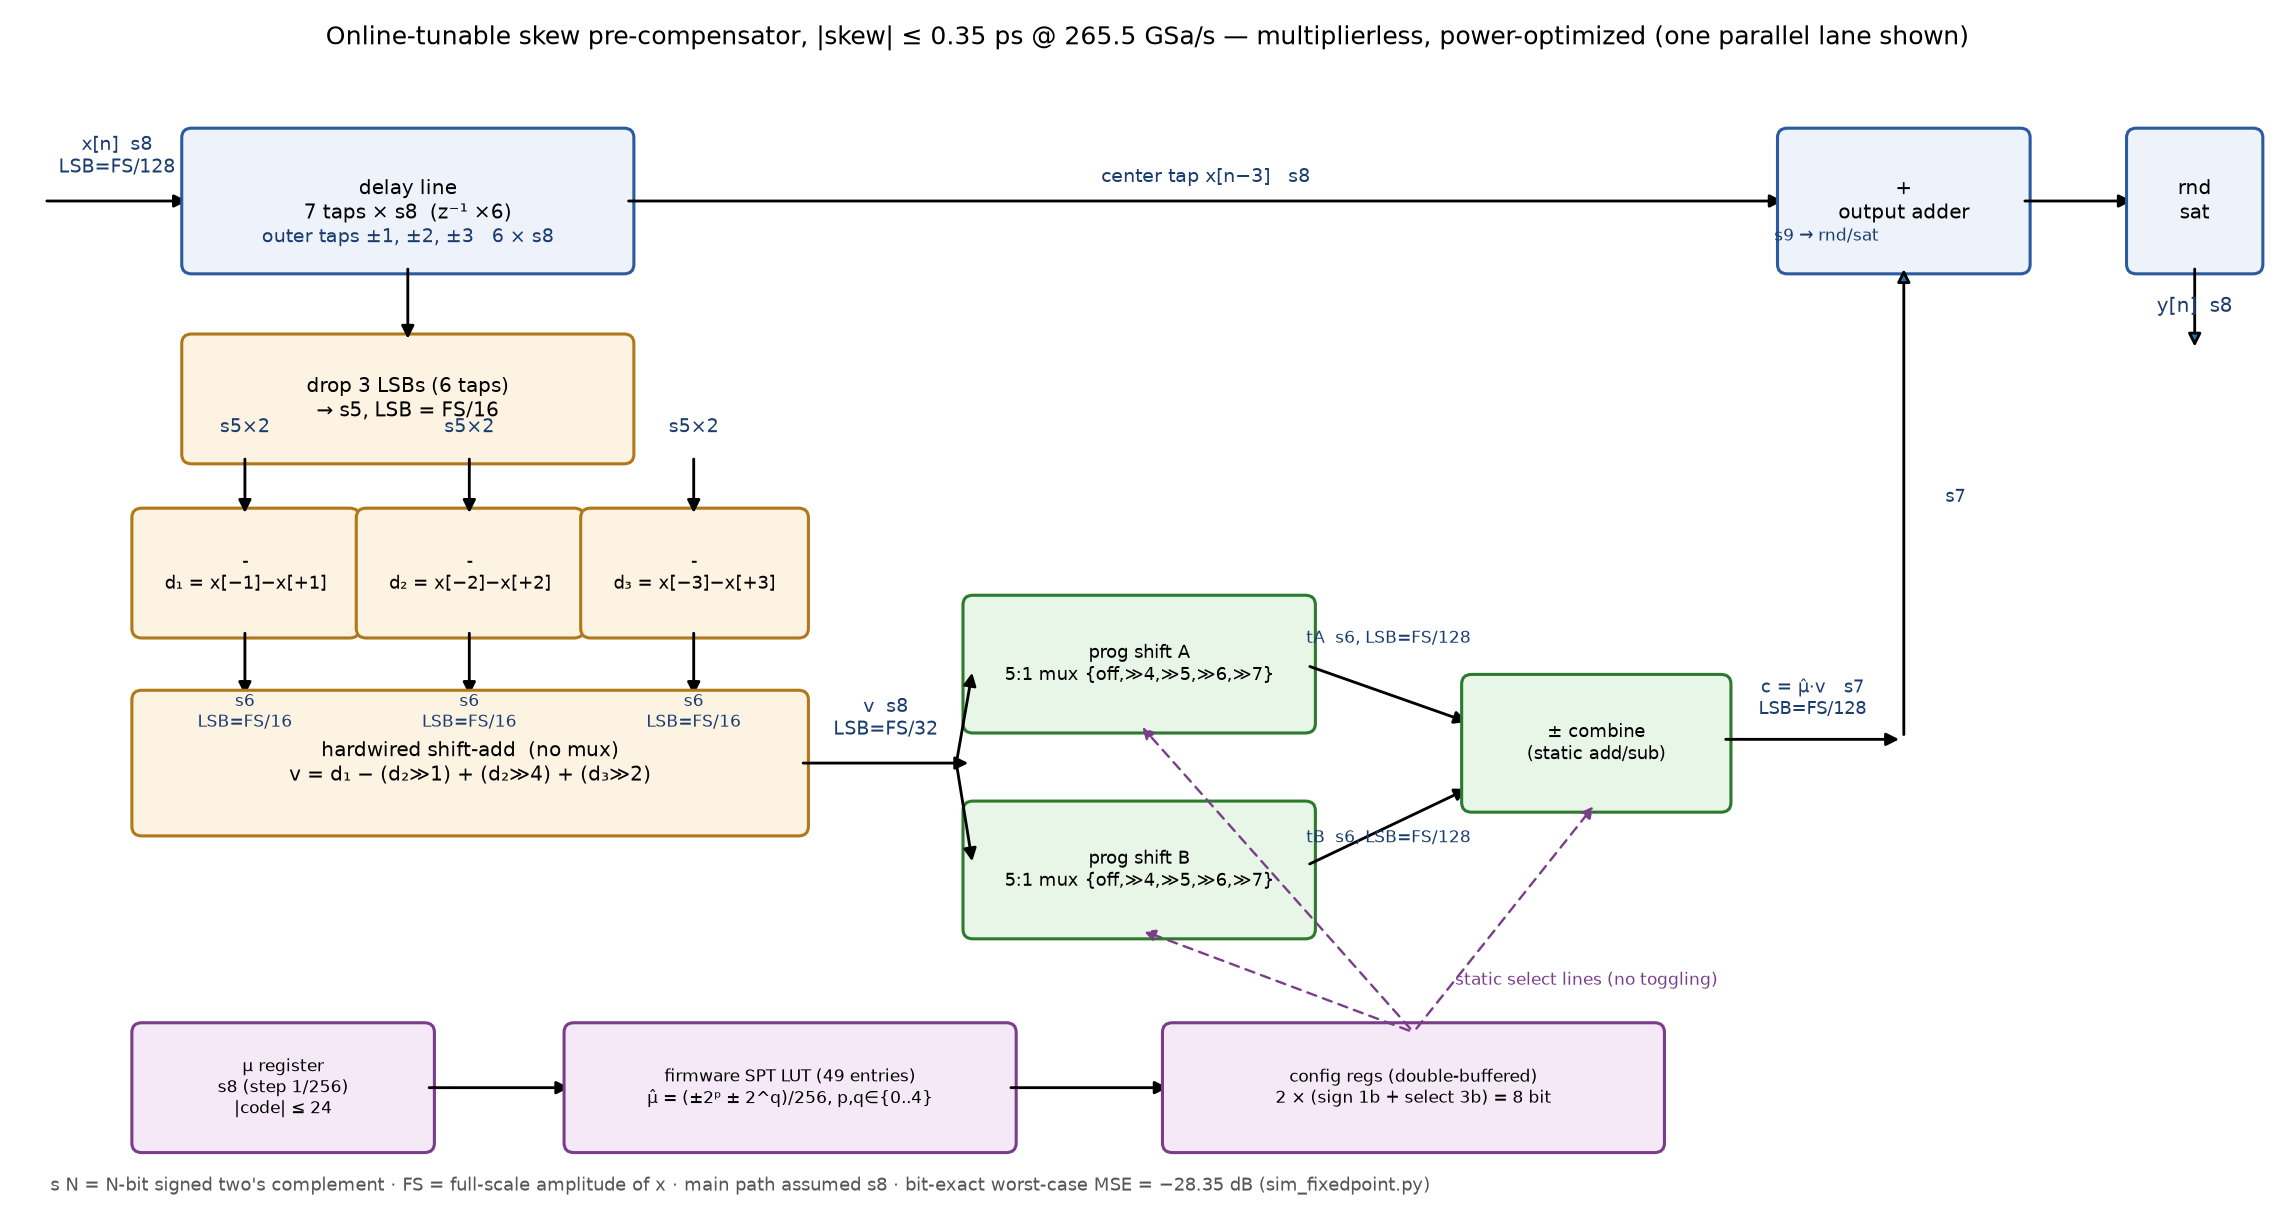
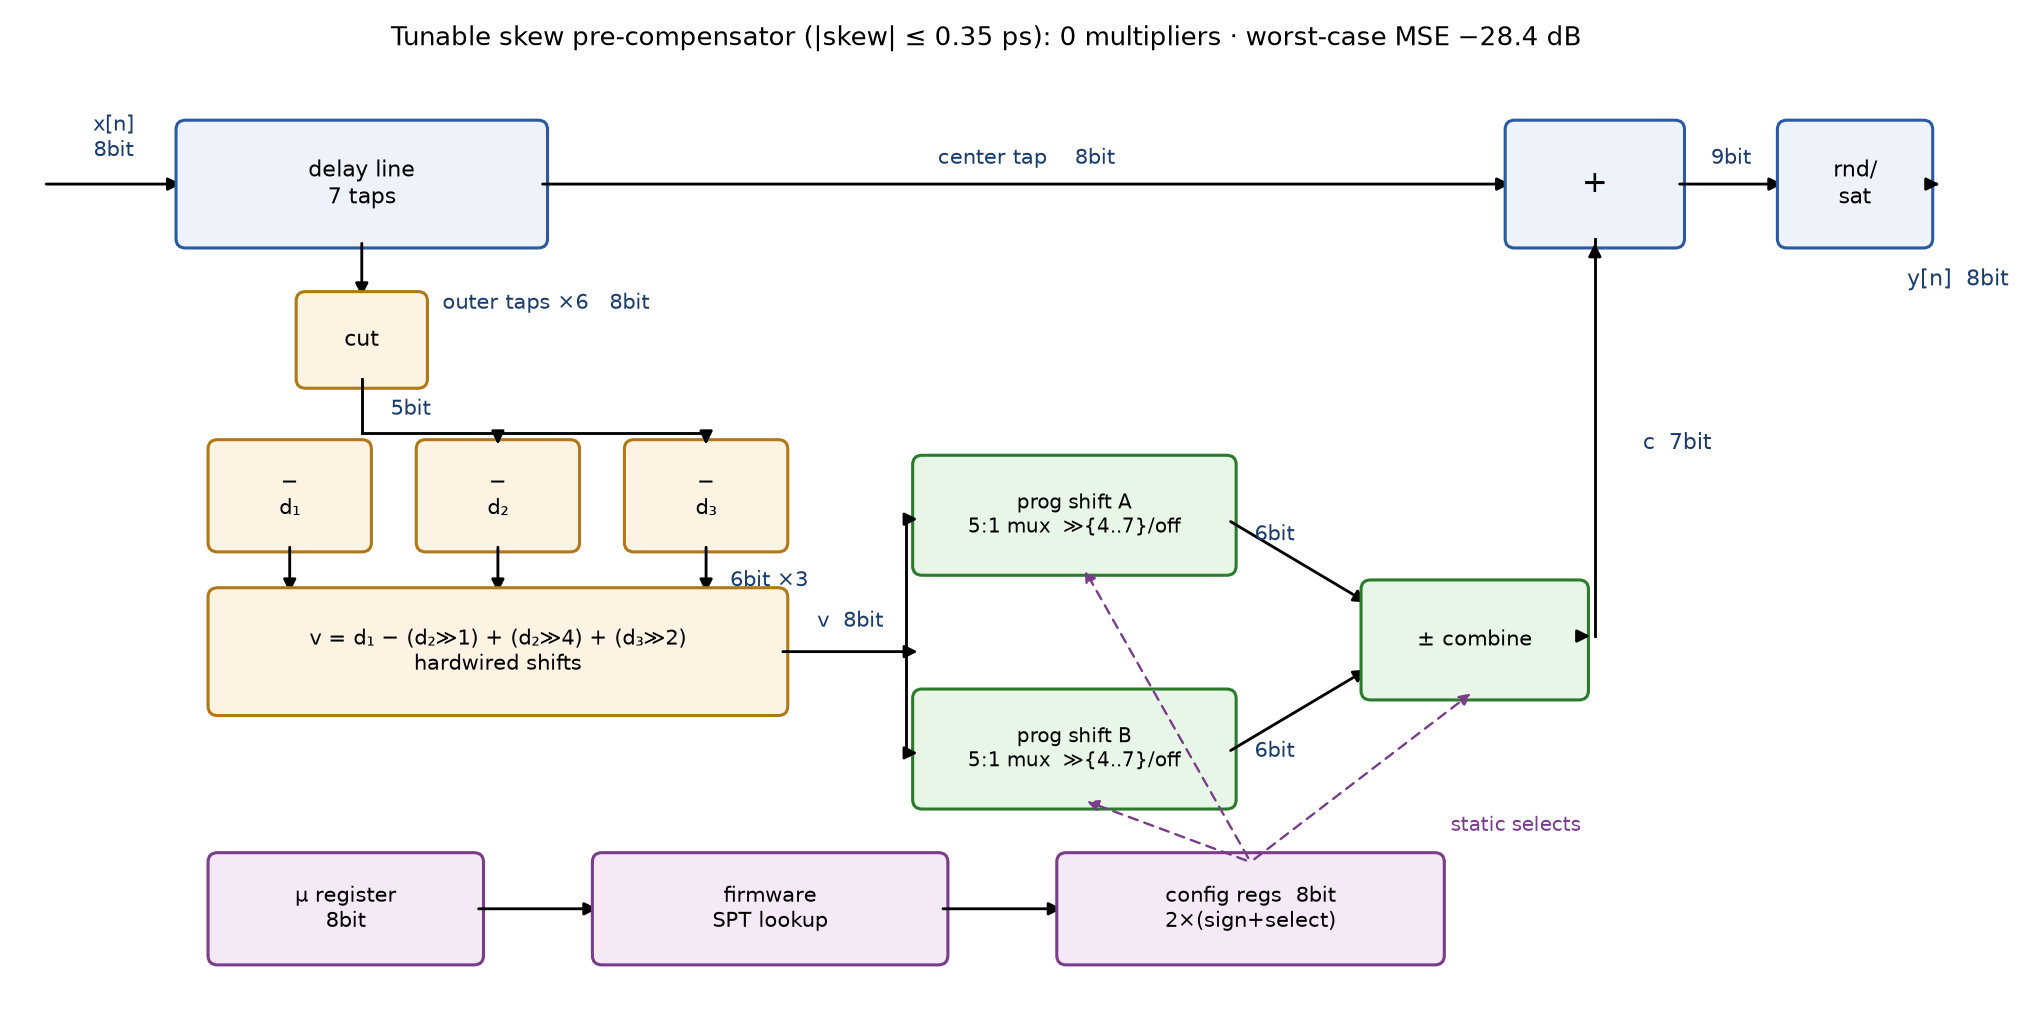
Simplify block diagram: plain bit-width labels, cut box for truncation
Claude-Session: https://claude.ai/code/session_01UbEyxzdQC9DticNgWAgSg7

diff --git a/skew-precomp/make_blockdiagram.py b/skew-precomp/make_blockdiagram.py
@@ -1,114 +1,99 @@
 #!/usr/bin/env python3
-"""Block diagram of the final power-optimized skew compensator with
-node bit-widths (verified bit-exact by sim_fixedpoint.py)."""
+"""Simplified block diagram: bit widths only (verified by sim_fixedpoint.py)."""
 
 import matplotlib
 matplotlib.use("Agg")
 import matplotlib.pyplot as plt
 from matplotlib.patches import FancyBboxPatch, FancyArrowPatch
 
-fig, ax = plt.subplots(figsize=(13.5, 7.2))
-ax.set_xlim(0, 13.5)
-ax.set_ylim(0, 7.2)
+fig, ax = plt.subplots(figsize=(12, 6))
+ax.set_xlim(0, 12)
+ax.set_ylim(0, 6)
 ax.axis("off")
 
-
-def box(x, y, w, h, text, fc="#eef3fb", ec="#2b5aa0", fs=8.6, style="round"):
-    ax.add_patch(FancyBboxPatch((x, y), w, h,
-                                boxstyle=f"{style},pad=0.06",
-                                fc=fc, ec=ec, lw=1.3))
-    ax.text(x + w / 2, y + h / 2, text, ha="center", va="center",
-            fontsize=fs)
+BLUE = dict(fc="#eef3fb", ec="#2b5aa0")
+ORANGE = dict(fc="#fdf3e3", ec="#b07818")
+GREEN = dict(fc="#e8f6e8", ec="#2c7a2c")
+PURPLE = dict(fc="#f5e9f7", ec="#7a3d8a")
 
 
-def arrow(x1, y1, x2, y2, label="", dy=0.14, fs=8, color="k", ls="-"):
-    ax.add_patch(FancyArrowPatch((x1, y1), (x2, y2),
-                                 arrowstyle="-|>", mutation_scale=11,
+def box(x, y, w, h, text, fs=9.5, **kw):
+    ax.add_patch(FancyBboxPatch((x, y), w, h, boxstyle="round,pad=0.06",
+                                lw=1.3, **kw))
+    ax.text(x + w / 2, y + h / 2, text, ha="center", va="center", fontsize=fs)
+
+
+def arrow(p1, p2, label="", loff=(0, 0.13), fs=9, color="k", ls="-"):
+    ax.add_patch(FancyArrowPatch(p1, p2, arrowstyle="-|>", mutation_scale=11,
                                  lw=1.2, color=color, linestyle=ls))
     if label:
-        ax.text((x1 + x2) / 2, max(y1, y2) + dy, label, ha="center",
-                fontsize=fs, color="#1a3d6e")
+        ax.text((p1[0] + p2[0]) / 2 + loff[0], (p1[1] + p2[1]) / 2 + loff[1],
+                label, ha="center", fontsize=fs, color="#1a3d6e")
 
 
-# ---------------- main path (top) ----------------
-arrow(0.1, 6.3, 1.0, 6.3, "x[n]  s8\nLSB=FS/128", dy=0.18)
-box(1.0, 5.9, 2.6, 0.8, "delay line\n7 taps × s8  (z⁻¹ ×6)")
-arrow(3.6, 6.3, 10.6, 6.3, "center tap x[n−3]   s8", dy=0.12)
-box(10.6, 5.9, 1.4, 0.8, "+\noutput adder")
-arrow(12.0, 6.3, 12.7, 6.3)
-box(12.7, 5.9, 0.7, 0.8, "rnd\nsat")
-ax.text(13.05, 5.6, "y[n]  s8", ha="center", fontsize=8.6, color="#1a3d6e")
-ax.add_patch(FancyArrowPatch((13.05, 5.9), (13.05, 5.35),
-                             arrowstyle="-|>", mutation_scale=11, lw=1.2))
+# ---------- main path ----------
+arrow((0.1, 5.2), (1.0, 5.2), "x[n]\n8bit", loff=(0, 0.18))
+box(1.0, 4.85, 2.2, 0.7, "delay line\n7 taps", **BLUE)
+arrow((3.2, 5.2), (9.3, 5.2), "center tap    8bit")
+box(9.3, 4.85, 1.0, 0.7, "+", fs=13, **BLUE)
+arrow((10.3, 5.2), (11.0, 5.2), "9bit")
+box(11.0, 4.85, 0.85, 0.7, "rnd/\nsat", **BLUE)
+arrow((11.9, 5.2), (11.98, 5.2))
+ax.text(11.75, 4.55, "y[n]  8bit", fontsize=9.5, color="#1a3d6e")
 
-# ---------------- correction path ----------------
-box(1.0, 4.7, 2.6, 0.7,
-    "drop 3 LSBs (6 taps)\n→ s5, LSB = FS/16", fc="#fdf3e3", ec="#b07818")
-arrow(2.3, 5.9, 2.3, 5.4, "outer taps ±1, ±2, ±3   6 × s8")
+# ---------- cut ----------
+arrow((2.1, 4.85), (2.1, 4.45), "outer taps ×6   8bit", loff=(1.15, -0.25))
+box(1.75, 3.95, 0.7, 0.5, "cut", **ORANGE)
+ax.text(2.28, 3.72, "5bit", fontsize=9, color="#1a3d6e")
 
-sub_x = [0.7, 2.05, 3.4]
-for i, (sx, lbl) in enumerate(zip(sub_x, ("d₁ = x[−1]−x[+1]",
-                                          "d₂ = x[−2]−x[+2]",
-                                          "d₃ = x[−3]−x[+3]"))):
-    box(sx, 3.6, 1.25, 0.7, f"-\n{lbl}", fc="#fdf3e3", ec="#b07818", fs=7.6)
-    arrow(sx + 0.62, 4.7, sx + 0.62, 4.3, "s5×2")
-    arrow(sx + 0.62, 3.6, sx + 0.62, 3.15,
-          "s6\nLSB=FS/16", dy=-0.62, fs=7.3)
+# ---------- subtractors ----------
+labels = ("d₁", "d₂", "d₃")
+for i, sx in enumerate((1.2, 2.5, 3.8)):
+    box(sx, 2.9, 0.9, 0.6, f"−\n{labels[i]}", fs=9, **ORANGE)
+    if i:
+        arrow((sx + 0.45, 3.6), (sx + 0.45, 3.5))
+    arrow((sx + 0.45, 2.9), (sx + 0.45, 2.55))
+ax.text(4.4, 2.62, "6bit ×3", fontsize=9, color="#1a3d6e")
+ax.plot([2.1, 4.25], [3.6, 3.6], color="k", lw=1.2)
+ax.plot([2.1, 2.1], [3.95, 3.6], color="k", lw=1.2)
 
-box(0.7, 2.35, 3.95, 0.8,
-    "hardwired shift-add  (no mux)\n"
-    "v = d₁ − (d₂≫1) + (d₂≫4) + (d₃≫2)",
-    fc="#fdf3e3", ec="#b07818")
-arrow(4.65, 2.75, 5.7, 2.75, "v  s8\nLSB=FS/32", dy=0.18)
+# ---------- hardwired shift-add ----------
+box(1.2, 1.85, 3.5, 0.7,
+    "v = d₁ − (d₂≫1) + (d₂≫4) + (d₃≫2)"
+    "\nhardwired shifts", fs=8.8, **ORANGE)
+arrow((4.7, 2.2), (5.6, 2.2), "v  8bit", loff=(0, 0.16))
 
-# two programmable shifters
-box(5.7, 3.0, 2.0, 0.75,
-    "prog shift A\n5:1 mux {off,≫4,≫5,≫6,≫7}", fc="#e8f6e8", ec="#2c7a2c",
-    fs=7.8)
-box(5.7, 1.7, 2.0, 0.75,
-    "prog shift B\n5:1 mux {off,≫4,≫5,≫6,≫7}", fc="#e8f6e8", ec="#2c7a2c",
-    fs=7.8)
-arrow(5.6, 2.75, 5.7, 3.35)
-arrow(5.6, 2.75, 5.7, 2.1)
-arrow(7.7, 3.37, 8.7, 3.0, "tA  s6, LSB=FS/128", fs=7.3)
-arrow(7.7, 2.1, 8.7, 2.6, "tB  s6, LSB=FS/128", dy=-0.35, fs=7.3)
+# ---------- programmable shifts ----------
+box(5.6, 2.75, 1.9, 0.65, "prog shift A\n5:1 mux  ≫{4..7}/off",
+    fs=8.5, **GREEN)
+box(5.6, 1.25, 1.9, 0.65, "prog shift B\n5:1 mux  ≫{4..7}/off",
+    fs=8.5, **GREEN)
+ax.plot([5.5, 5.5], [1.55, 3.05], color="k", lw=1.2)
+arrow((5.5, 3.05), (5.6, 3.05))
+arrow((5.5, 1.55), (5.6, 1.55))
+arrow((7.5, 3.05), (8.4, 2.5), "6bit", loff=(-0.15, 0.14))
+arrow((7.5, 1.55), (8.4, 2.1), "6bit", loff=(-0.15, -0.3))
+box(8.4, 1.95, 1.3, 0.65, "± combine", fs=9, **GREEN)
+arrow((9.7, 2.3), (9.8, 2.3))
+ax.plot([9.8, 9.8], [2.3, 4.85], color="k", lw=1.2)
+arrow((9.8, 4.7), (9.8, 4.85))
+ax.text(10.1, 3.5, "c  7bit", fontsize=9.5, color="#1a3d6e")
 
-box(8.7, 2.5, 1.5, 0.75, "± combine\n(static add/sub)",
-    fc="#e8f6e8", ec="#2c7a2c", fs=7.8)
-arrow(10.2, 2.9, 11.3, 2.9, "c = μ̂·v   s7\nLSB=FS/128", dy=0.16, fs=7.6)
-ax.add_patch(FancyArrowPatch((11.3, 2.9), (11.3, 5.9),
-                             arrowstyle="-|>", mutation_scale=11, lw=1.2))
-ax.text(11.55, 4.4, "s7", fontsize=7.6, color="#1a3d6e")
-ax.text(11.15, 6.05, "s9 → rnd/sat", fontsize=7.2, ha="right",
-        color="#1a3d6e")
-
-# ---------------- config / firmware (bottom) ----------------
-box(0.7, 0.35, 1.7, 0.7, "μ register\ns8 (step 1/256)\n|code| ≤ 24",
-    fc="#f5e9f7", ec="#7a3d8a", fs=7.4)
-arrow(2.4, 0.7, 3.3, 0.7)
-box(3.3, 0.35, 2.6, 0.7,
-    "firmware SPT LUT (49 entries)\nμ̂ = (±2ᵖ ± 2^q)/256, p,q∈{0..4}",
-    fc="#f5e9f7", ec="#7a3d8a", fs=7.4)
-arrow(5.9, 0.7, 6.9, 0.7)
-box(6.9, 0.35, 2.9, 0.7,
-    "config regs (double-buffered)\n2 × (sign 1b + select 3b) = 8 bit",
-    fc="#f5e9f7", ec="#7a3d8a", fs=7.4)
-for tx, ty in ((6.7, 1.7), (6.7, 3.0), (9.45, 2.5)):
-    ax.add_patch(FancyArrowPatch((8.35, 1.05), (tx, ty),
-                                 arrowstyle="-|>", mutation_scale=10,
-                                 lw=1.0, color="#7a3d8a",
+# ---------- config ----------
+box(1.2, 0.25, 1.6, 0.6, "μ register\n8bit", fs=8.8, **PURPLE)
+arrow((2.8, 0.55), (3.6, 0.55))
+box(3.6, 0.25, 2.1, 0.6, "firmware\nSPT lookup", fs=8.8, **PURPLE)
+arrow((5.7, 0.55), (6.5, 0.55))
+box(6.5, 0.25, 2.3, 0.6, "config regs  8bit\n2×(sign+select)", fs=8.8,
+    **PURPLE)
+for tgt in ((6.6, 1.25), (6.6, 2.75), (9.05, 1.95)):
+    ax.add_patch(FancyArrowPatch((7.65, 0.85), tgt, arrowstyle="-|>",
+                                 mutation_scale=10, lw=1.0, color="#7a3d8a",
                                  linestyle=(0, (4, 3))))
-ax.text(8.6, 1.35, "static select lines (no toggling)", fontsize=7.4,
-        color="#7a3d8a")
+ax.text(8.9, 1.05, "static selects", fontsize=8.5, color="#7a3d8a")
 
-ax.text(0.15, 0.05,
-        "s N = N-bit signed two's complement · FS = full-scale amplitude of"
-        " x · main path assumed s8 · bit-exact worst-case MSE = −28.35 dB"
-        " (sim_fixedpoint.py)",
-        fontsize=7.6, color="#555")
-ax.set_title("Online-tunable skew pre-compensator, |skew| ≤ 0.35 ps "
-             "@ 265.5 GSa/s — multiplierless, power-optimized "
-             "(one parallel lane shown)", fontsize=10.5)
+ax.set_title("Tunable skew pre-compensator (|skew| ≤ 0.35 ps): "
+             "0 multipliers · worst-case MSE −28.4 dB", fontsize=11)
 fig.tight_layout()
 fig.savefig("blockdiagram.png", dpi=170)
 print("saved blockdiagram.png")
